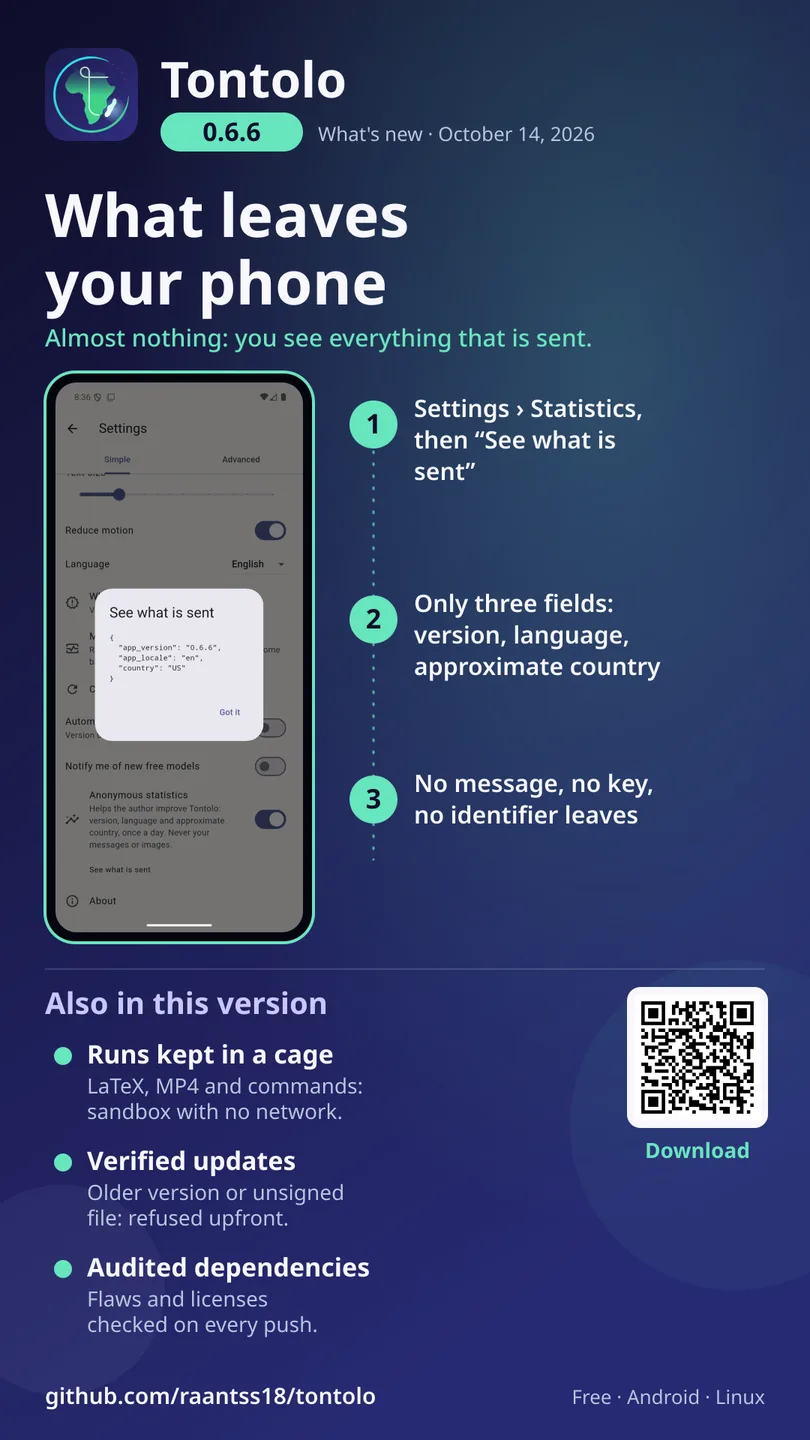
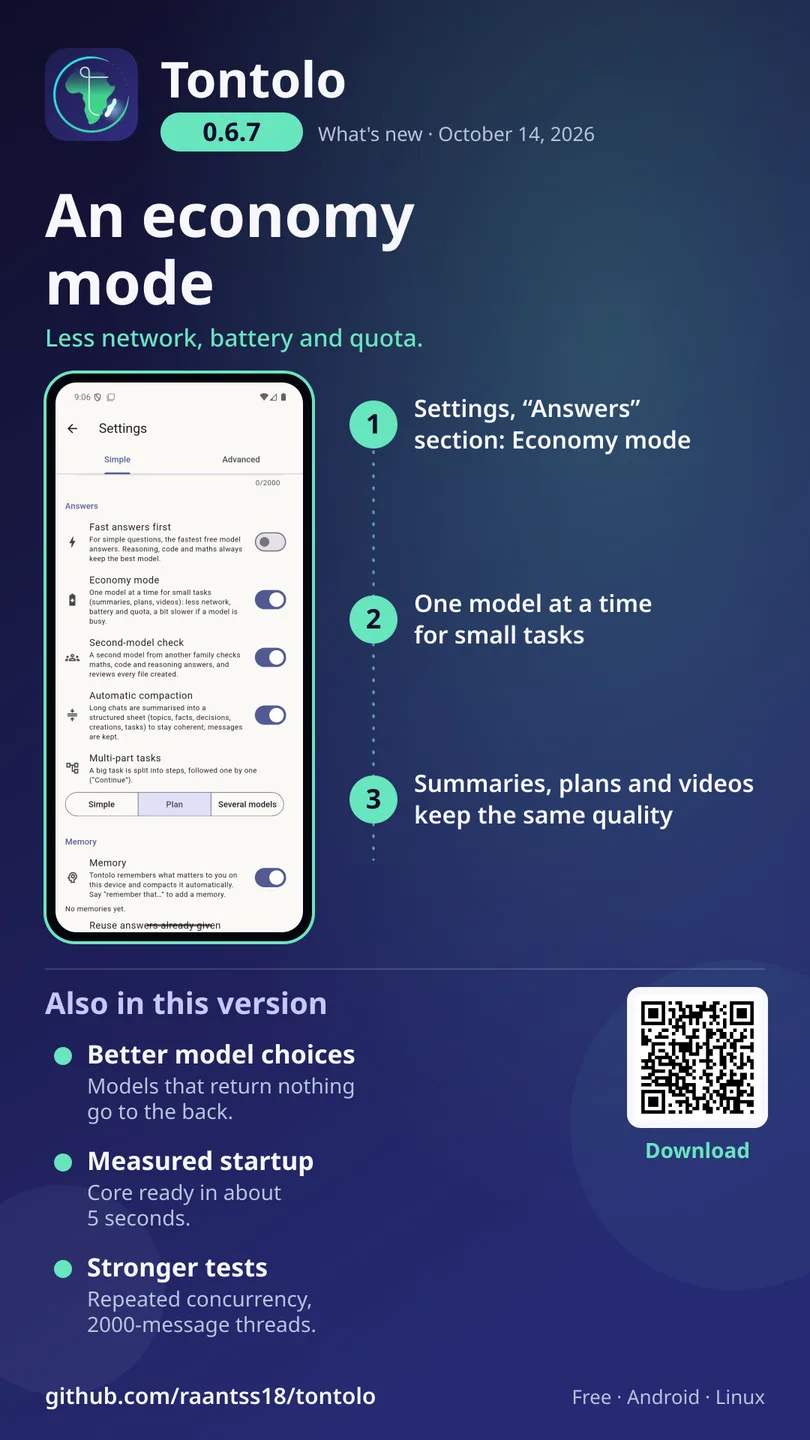
chore(release): v0.6.7 — phase B fiabilité
Fiabilité observée des appels courts, mode économie, démarrage mesuré (docs/PERF.md), tests de concurrence répétés en CI, charge 2000 messages.

diff --git a/app/lib/l10n/strings.dart b/app/lib/l10n/strings.dart
@@ -158,6 +158,8 @@ const Map<String, Map<String, String>> _t = {
     'offline_queued': 'Pas de connexion : votre message partira tout seul dès le retour du réseau.',
     'speed_first': 'Réponse rapide d\'abord',
     'speed_first_help': 'Pour les questions simples, le modèle gratuit le plus rapide répond. Raisonnement, code et maths gardent toujours le meilleur modèle.',
+    'economy': 'Mode économie',
+    'economy_help': 'Un seul modèle à la fois pour les petites tâches (résumés, plans, vidéos) : moins de réseau, de batterie et de quota, un peu plus lent si un modèle est saturé.',
     'health_ready': '{n} modèles gratuits prêts · meilleur : {best}',
     'health_none': 'Aucun modèle gratuit prêt pour le moment',
     'health_none_until': 'Aucun modèle gratuit prêt · retour vers {t}',
@@ -807,7 +809,7 @@ const Map<String, Map<String, String>> _t = {
     'err_offline': 'No Internet connection. Check Wi-Fi or mobile data.',
     'err_all_failed': 'All available free models failed for now.',
     'err_no_model': 'No free model available for this task. Add a free key in Settings or try again later.',
-    'err_strict': 'Your preferred model is temporarily exhausted (strict mode).', 'model_status': 'Model status', 'model_status_sub': 'Ready, paused, exhausted — and when they come back', 'status_help': 'Tontolo moves to the next model automatically when one is paused. Pull to refresh.', 'st_ready': 'Ready', 'st_paused': 'Paused', 'st_out': 'Exhausted for today', 'back_at': 'back around {t}', 'why_rate_limit': 'rate limit', 'why_quota': 'daily quota used up', 'why_auth': 'key rejected', 'why_unavailable': 'model removed', 'why_server': 'provider error', 'why_network': 'network problem', 'offline_queued': 'No connection: your message will be sent automatically when the network is back.', 'speed_first': 'Fast answers first', 'speed_first_help': 'For simple questions, the fastest free model answers. Reasoning, code and maths always keep the best model.', 'health_ready': '{n} free models ready · best: {best}', 'health_none': 'No free model ready right now', 'health_none_until': 'No free model ready · back around {t}', 'health_offline': 'No Internet connection', 'quick_models': 'Pin a model for this chat', 'auto_sub': 'The best free model, picked for each message', 'model_waiting': 'paused',
+    'err_strict': 'Your preferred model is temporarily exhausted (strict mode).', 'model_status': 'Model status', 'model_status_sub': 'Ready, paused, exhausted — and when they come back', 'status_help': 'Tontolo moves to the next model automatically when one is paused. Pull to refresh.', 'st_ready': 'Ready', 'st_paused': 'Paused', 'st_out': 'Exhausted for today', 'back_at': 'back around {t}', 'why_rate_limit': 'rate limit', 'why_quota': 'daily quota used up', 'why_auth': 'key rejected', 'why_unavailable': 'model removed', 'why_server': 'provider error', 'why_network': 'network problem', 'offline_queued': 'No connection: your message will be sent automatically when the network is back.', 'economy': 'Economy mode', 'economy_help': 'One model at a time for small tasks (summaries, plans, videos): less network, battery and quota, a bit slower if a model is busy.', 'speed_first': 'Fast answers first', 'speed_first_help': 'For simple questions, the fastest free model answers. Reasoning, code and maths always keep the best model.', 'health_ready': '{n} free models ready · best: {best}', 'health_none': 'No free model ready right now', 'health_none_until': 'No free model ready · back around {t}', 'health_offline': 'No Internet connection', 'quick_models': 'Pin a model for this chat', 'auto_sub': 'The best free model, picked for each message', 'model_waiting': 'paused',
     'sc_image': 'Create an image', 'sc_image_sub': 'Describe it, it\'s free', 'sc_image_p': 'Draw ',
     'sc_video': 'Create a video', 'sc_video_sub': 'A few seconds, no key', 'sc_video_p': 'Make a video of ',
     'sc_retouch': 'Retouch a photo', 'sc_retouch_sub': 'On device, faithful', 'sc_retouch_p': 'Make this photo brighter and more professional, without changing the person',
@@ -1389,6 +1391,8 @@ const Map<String, Map<String, String>> _t = {
     'why_rate_limit': 'be loatra ny fangatahana', 'why_quota': 'lany ny fetran\'ny anio', 'why_auth': 'nolavina ny fanalahidy',
     'why_unavailable': 'nesorina ny modely', 'why_server': 'olana tamin\'ny mpamatsy', 'why_network': 'olana amin\'ny tambajotra',
     'offline_queued': 'Tsy misy fifandraisana: ho lasa ho azy ny hafatrao raha vao miverina ny tambajotra.',
+    'economy': 'Fomba mitsitsy',
+    'economy_help': 'Modely iray isaky ny fotoana ho an\'ny asa kely (famintinana, drafitra, horonan-tsary): tsy dia mandany tambajotra, batterie ary quota, kely miadana kokoa raha be loatra ny modely.',
     'speed_first': 'Valiny haingana aloha',
     'speed_first_help': 'Ho an\'ny fanontaniana tsotra, ny modely maimaim-poana haingana indrindra no mamaly. Ny fisainana, ny kaody ary ny matematika dia mitazona hatrany ny modely tsara indrindra.',
     'health_ready': 'Modely maimaim-poana {n} vonona · tsara indrindra: {best}',

diff --git a/app/lib/core/whats_new.dart b/app/lib/core/whats_new.dart
@@ -14,6 +14,16 @@ class NewsItem {
 }
 
 const whatsNew = <String, List<NewsItem>>{
+  '0.6.7': [
+    NewsItem(Icons.battery_saver_outlined, 'Un mode économie',
+        'Réglages › Personnalisation › Mode économie : Tontolo ne lance plus qu\'un modèle à la fois pour les petites tâches (résumés, plans, vidéos). Moins de réseau, de batterie et de quota.',
+        'An economy mode', 'Settings › Personalization › Economy mode: Tontolo runs only one model at a time for small tasks (summaries, plans, videos). Less network, battery and quota.',
+        mg: 'Fomba mitsitsy', mgText: 'Kirakira › Fanamboarana manokana › Fomba mitsitsy: modely iray isaky ny fotoana no alefan\'i Tontolo ho an\'ny asa kely (famintinana, drafitra, horonan-tsary). Tsy dia mandany tambajotra, batterie ary quota.'),
+    NewsItem(Icons.speed_outlined, 'Des choix de modèles plus malins',
+        'Tontolo retient quels modèles gratuits répondent vraiment (et lesquels répondent vide) et met les moins fiables derrière. Le démarrage est mesuré : environ 5 secondes.',
+        'Smarter model choices', 'Tontolo remembers which free models really answer (and which return nothing) and puts the least reliable ones behind. Startup is measured: about 5 seconds.',
+        mg: 'Safidy modely hendry kokoa', mgText: 'Tsaroan\'i Tontolo ny modely maimaim-poana mamaly tokoa (sy ireo tsy mamaly) ary apetrany aoriana ny tsy dia azo itokisana. Voamarina ny fanombohana: eo amin\'ny 5 segondra.'),
+  ],
   '0.6.6': [
     NewsItem(Icons.lock_outline, 'Ce qui sort de votre téléphone : presque rien',
         'Les statistiques se limitent maintenant à la version, la langue et le pays approximatif. « Voir ce qui est envoyé » montre exactement cela. Vos clés ne sortent jamais, même dans les messages d\'erreur.',

diff --git a/app/lib/ui/personalization.dart b/app/lib/ui/personalization.dart
@@ -25,6 +25,7 @@ class _PersonalizationSectionState extends State<PersonalizationSection> {
   List<Map<String, dynamic>> memories = [];
   bool enabled = true;
   bool speedFirst = false;
+  bool economy = false;
   bool teamReview = true;
   bool autoCompact = true;
   bool taskPlanning = true;
@@ -70,6 +71,7 @@ class _PersonalizationSectionState extends State<PersonalizationSection> {
       userName.text = '${s['user_name'] ?? ''}';
       enabled = m['enabled'] == true;
       speedFirst = s['speed_first'] == true;
+      economy = s['economy'] == true;
       teamReview = s['team_review'] != false; // absent (ancien cœur) : affiché actif
       autoCompact = s['auto_compact'] != false;
       taskPlanning = s['task_planning'] != false;
@@ -144,6 +146,16 @@ class _PersonalizationSectionState extends State<PersonalizationSection> {
         onChanged: (v) {
           setState(() => speedFirst = v);
           _call('PUT', '/tontolo/settings', {'speed_first': v});
+        },
+      ),
+      SwitchListTile(
+        secondary: const Icon(Icons.battery_saver_outlined),
+        title: Text(context.t('economy')),
+        subtitle: Text(context.t('economy_help'), style: small),
+        value: economy,
+        onChanged: (v) {
+          setState(() => economy = v);
+          _call('PUT', '/tontolo/settings', {'economy': v});
         },
       ),
       SwitchListTile(

diff --git a/app/lib/core/updater.dart b/app/lib/core/updater.dart
@@ -23,7 +23,7 @@ import '../l10n/strings.dart';
 import 'prefs.dart';
 import 'update_key.dart';
 
-const appVersion = '0.6.6';
+const appVersion = '0.6.7';
 const repo = 'raantss18/tontolo';
 
 enum UpdateStatus { idle, checking, downloading, ready, failed, upToDate }

diff --git a/core/tests/test_router.py b/core/tests/test_router.py
@@ -6,6 +6,7 @@ import time
 
 from tontolo.catalog.models import Category
 from tontolo.config import PaidFallback
+from tontolo.providers.registry import ProviderRegistry
 from tontolo.router.classifier import classify
 from tontolo.router.engine import Router
 from tontolo.storage.db import Database
@@ -187,3 +188,47 @@ def test_photo_of_exercise_is_never_an_edit() -> None:
                "rends la réponse en pdf") == Category.VISION
     assert cat("résous ce problème") == Category.VISION
     assert cat("rends la photo plus lumineuse") == Category.IMAGE_EDIT
+
+
+async def test_quick_calls_feed_reliability(settings, catalog_service, fake) -> None:
+    """Les appels courts (résumés, briefs, scénarios) apprennent quels modèles tiennent."""
+    from tontolo.router.engine import Router
+
+    router = Router(settings, catalog_service, registry=ProviderRegistry(lambda p: fake))
+    models = router._small_free_models(8)
+    assert models
+    bad = models[0]
+    for m in models:
+        fake.behaviors[m.model_id] = lambda model, messages: {"role": "assistant", "content": ""}
+    await router.quick([{"role": "user", "content": "x"}], 50, budget=2, per_try=1, stagger=0.1)
+    assert router.reliability.get(bad.key) < router.reliability.get("jamais-vu")
+
+
+async def test_economy_mode_runs_one_quick_call_at_a_time(settings, catalog_service, fake) -> None:
+    import asyncio
+    from types import SimpleNamespace
+
+    from tontolo.router.engine import Router
+
+    live = {"now": 0, "max": 0}
+
+    class Slow:
+        async def chat(self, model, messages, **kw):
+            live["now"] += 1
+            live["max"] = max(live["max"], live["now"])
+            try:
+                await asyncio.sleep(0.3)
+            finally:
+                live["now"] -= 1
+            return SimpleNamespace(message={"content": ""})
+
+    async def run(economy: bool) -> int:
+        settings.economy = economy
+        live["max"] = 0
+        router = Router(settings, catalog_service, registry=SimpleNamespace(get=lambda p: Slow()))
+        await router.quick([{"role": "user", "content": "x"}], 50, budget=1.5, per_try=1,
+                           stagger=0.05)
+        return live["max"]
+
+    assert await run(False) >= 2   # course normale : plusieurs candidats en parallèle
+    assert await run(True) == 1    # économie : un seul à la fois

diff --git a/core/tontolo/router/engine.py b/core/tontolo/router/engine.py
@@ -562,6 +562,7 @@ class Router:
         started = time.monotonic()
 
         async def attempt(m: ModelInfo) -> str | None:
+            t0 = time.monotonic()
             try:
                 client = self.registry.get(self.catalog.catalog.providers[m.provider])
                 self.quota.record_request(m)
@@ -569,13 +570,20 @@ class Router:
                     res = await client.chat(m, messages, max_tokens=max_tokens, temperature=0)
                 content = res.message.get("content")
                 text = str(content) if content and str(content).strip() else None
-                return text if text and (accept is None or accept(text)) else None
+                good = text is not None and (accept is None or accept(text))
+                # Un modèle qui répond vide ou à côté compte comme un échec : il passe derrière.
+                self.reliability.record(m.key, good)
+                if good and text:
+                    self.reliability.record_speed(m.key, len(text), time.monotonic() - t0)
+                return text if good else None
             except ProviderError as err:
+                self.reliability.record(m.key, False)
                 self.quota.on_error(m, err)
             except TimeoutError:
+                self.reliability.record(m.key, False)
                 self.quota.on_error(m, ProviderError("délai dépassé", ErrorKind.NETWORK))
             except Exception:
-                pass
+                self.reliability.record(m.key, False)
             return None
 
         running: set[asyncio.Task[str | None]] = set()
@@ -596,7 +604,7 @@ class Router:
                 for task in done:
                     if (answer := task.result()) is not None:
                         return answer
-                if len(running) < QUICK_PARALLEL:
+                if len(running) < (1 if self.settings.economy else QUICK_PARALLEL):
                     launch()
                 if not running and not launch():
                     break

diff --git a/core/tests/test_threadmemory.py b/core/tests/test_threadmemory.py
@@ -104,3 +104,18 @@ def test_a_long_thread_keeps_files_facts_and_style_whatever_the_model(
     sent = answer_to("rappelle-moi mon budget pour la cuisine")
     system = "\n".join(str(m["content"]) for m in sent if m["role"] == "system")
     assert "4500 euros" in system or any("4500 euros" in str(m["content"]) for m in sent)
+
+
+def test_very_long_threads_stay_fast_and_bounded() -> None:
+    """Charge : 2000 messages. Le rappel doit rester sous le budget (temps et taille), sinon
+    chaque tour d'une discussion très longue ralentirait."""
+    import time
+
+    history = _talk(2000, secret_at=2000 - threadmemory.MAX_SCAN // 2)  # dans la fenêtre scannée
+    history.append({"role": "user", "content": "Rappelle-moi le budget de la cuisine"})
+    t0 = time.perf_counter()
+    found = threadmemory.recall(history, "Rappelle-moi le budget de la cuisine")
+    elapsed = time.perf_counter() - t0
+    assert found is not None and "4500 euros" in found
+    assert len(found) < 6000       # jamais plus que le budget de contexte prévu
+    assert elapsed < 0.5, f"rappel trop lent : {elapsed:.2f} s pour 2000 messages"

diff --git a/core/tontolo/server/app.py b/core/tontolo/server/app.py
@@ -8,6 +8,7 @@ ou sur une machine Linux (mode client-serveur, jeton obligatoire).
 from __future__ import annotations
 
 import hmac
+import time
 from collections.abc import AsyncIterator
 from contextlib import asynccontextmanager
 from typing import Any
@@ -42,7 +43,10 @@ def create_app(
 
     @asynccontextmanager
     async def lifespan(app: FastAPI) -> AsyncIterator[None]:
+        started = time.monotonic()
         core = await Core.start(settings, registry=registry, refresh=refresh)
+        # Durée du démarrage du cœur (catalogue compris) : mesurée pour docs/PERF.md.
+        print(f"[tontolo] cœur prêt en {time.monotonic() - started:.2f}s", flush=True)
         app.state.core = core
         core.catalog.on_changes(lambda ch: hub.publish({"type": "catalog_changes",
                                                         "changes": ch}))

diff --git a/core/tontolo/config.py b/core/tontolo/config.py
@@ -121,6 +121,9 @@ class Settings(BaseModel):
     # « Réponse rapide d'abord » : pour les demandes simples, le modèle le plus rapide passe
     # devant ; les demandes complexes (raisonnement, code, maths…) gardent le meilleur.
     speed_first: bool = False
+    # Mode économie : un seul modèle à la fois pour les appels courts (moins de réseau, de batterie
+    # et de quota) ; un peu plus lent quand un modèle gratuit est saturé.
+    economy: bool = False
     # Équipe de modèles : un second modèle (autre famille) vérifie les réponses de maths,
     # code et raisonnement, et signale une erreur éventuelle.
     team_review: bool = True

diff --git a/core/tontolo/__init__.py b/core/tontolo/__init__.py
@@ -1,3 +1,3 @@
 """Tontolo — hub d'IA libre qui route vers le meilleur modèle gratuit disponible."""
 
-__version__ = "0.6.6"
+__version__ = "0.6.7"

diff --git a/docs/PERF.md b/docs/PERF.md
@@ -1,0 +1,31 @@
+# Performance et budgets mesurés
+
+Mesures reproductibles ; à refaire à chaque changement du démarrage ou du routeur.
+
+## Premier lancement Android (émulateur x86_64, API 36, installation neuve)
+
+| Étape | Durée |
+|---|---|
+| Imports du cœur Python | 3,0 s |
+| Démarrage du cœur (catalogue du cache ou de l'instantané embarqué) | 1,9 s |
+| **Cœur prêt (journal `[tontolo] cœur prêt en …`)** | **≈ 5 s** |
+| Classements (LMArena…) | en arrière-plan, jamais bloquants |
+
+Les « ~150 s » constatés plus tôt venaient de machines chargées (compilation en parallèle, premier
+passage ART/dex2oat après installation par-dessus une ancienne version), pas du cœur. Si un
+téléphone réel est lent au premier lancement, relever ces deux lignes avec
+`adb logcat -d | grep "\[tontolo\]"` et les ajouter ici.
+
+## Appels courts (résumés, briefs, scénarios)
+
+- Course de 3 modèles gratuits au plus ; **mode économie** (Réglages › Personnalisation) : un seul
+  à la fois (moins de réseau, de batterie, de quota).
+- Les modèles qui répondent vide, hors format ou tardent comptent comme des échecs dans la
+  fiabilité locale (`router/scoring.py`) et passent derrière aux appels suivants ; vitesse observée
+  conservée.
+
+## Longues discussions
+
+- Rappel d'un fait ancien (`agent/threadmemory.py`) : fenêtre de 600 messages anciens, 2000
+  messages au total, **< 0,5 s** et < 6000 caractères (test `test_very_long_threads_stay_fast_and_bounded`).
+- Plus loin que la fenêtre, c'est la fiche de compactage du début du fil qui porte les faits.

diff --git a/TASKS.md b/TASKS.md
@@ -433,7 +433,12 @@ Pourquoi pas du code Manim écrit par un modèle : du code arbitraire exécuté 
 - [x] Phase A / A5 : tests négatifs des mises à jour signées.
 - [x] Phase A / A6 : entrées non fiables et bornes.
 - [~] Livraison phase A (v0.6.6) : suite complète, version groupée, affiches fr/en/mg, CI, release et signatures.
-- [ ] Phase B : fiabilité, premier lancement, économie et charge.
+- [x] Phase B / B1 : les appels courts alimentent la fiabilité et la vitesse observées (vide, hors format, délai = échec).
+- [x] Phase B / B2 : « Réessayer » existait déjà (erreur, régénération) ; aucun changement.
+- [x] Phase B / B3 : mesuré, cœur prêt en ≈ 5 s sur installation neuve (docs/PERF.md) ; le « 150 s » venait de machines chargées.
+- [x] Phase B / B4 : mode économie (un appel court à la fois), réglage fr/en/mg, test de concurrence.
+- [x] Phase B / B5 : tests de concurrence répétés 3 fois dans la CI.
+- [x] Phase B / B6 : charge 2000 messages (< 0,5 s) dans test_threadmemory.
 - [ ] Phase C : relecture des scénarios, langue, variantes, bibliothèque et progression Apprendre.
 - [ ] Phase D : design, accessibilité, F-Droid et étude Flatpak.
 - [ ] Phase E : réconciliation des tâches et documentation finale.
